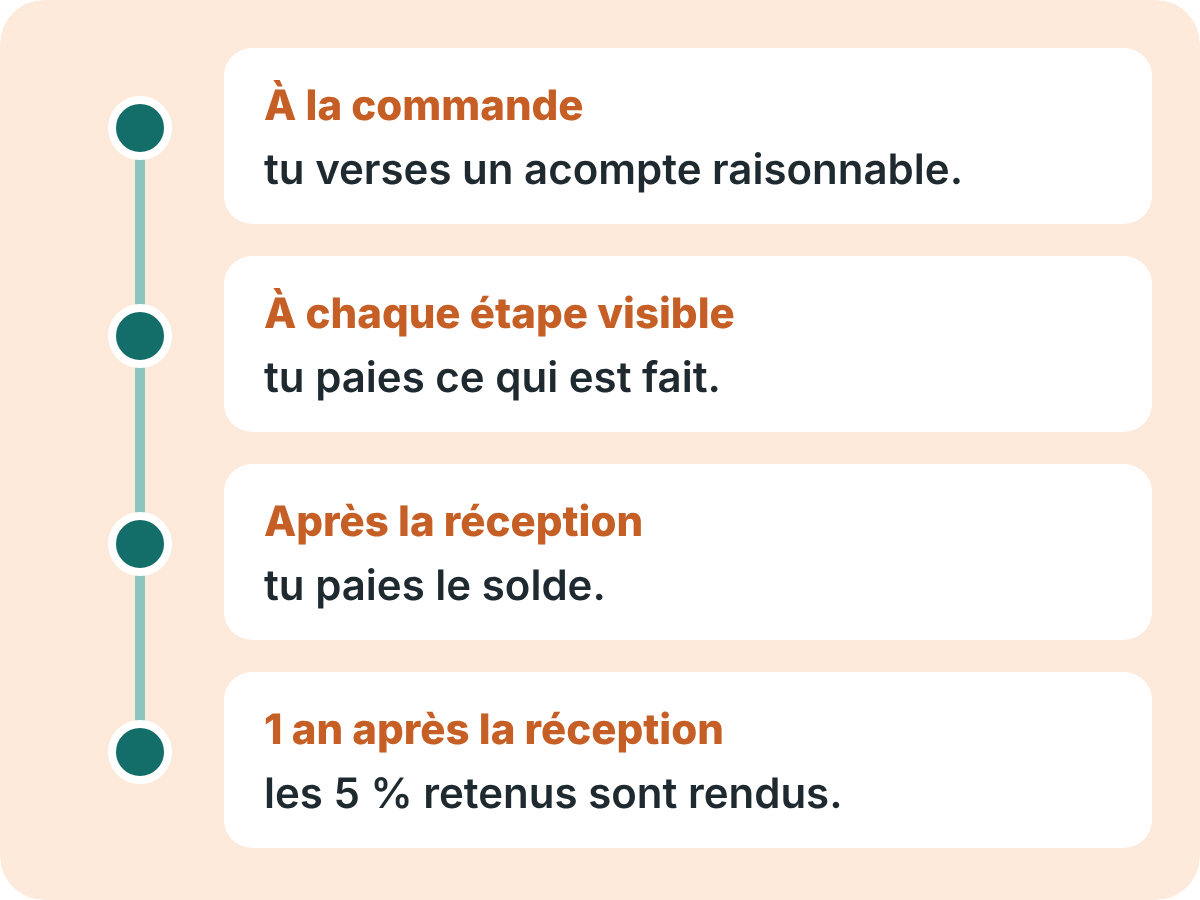
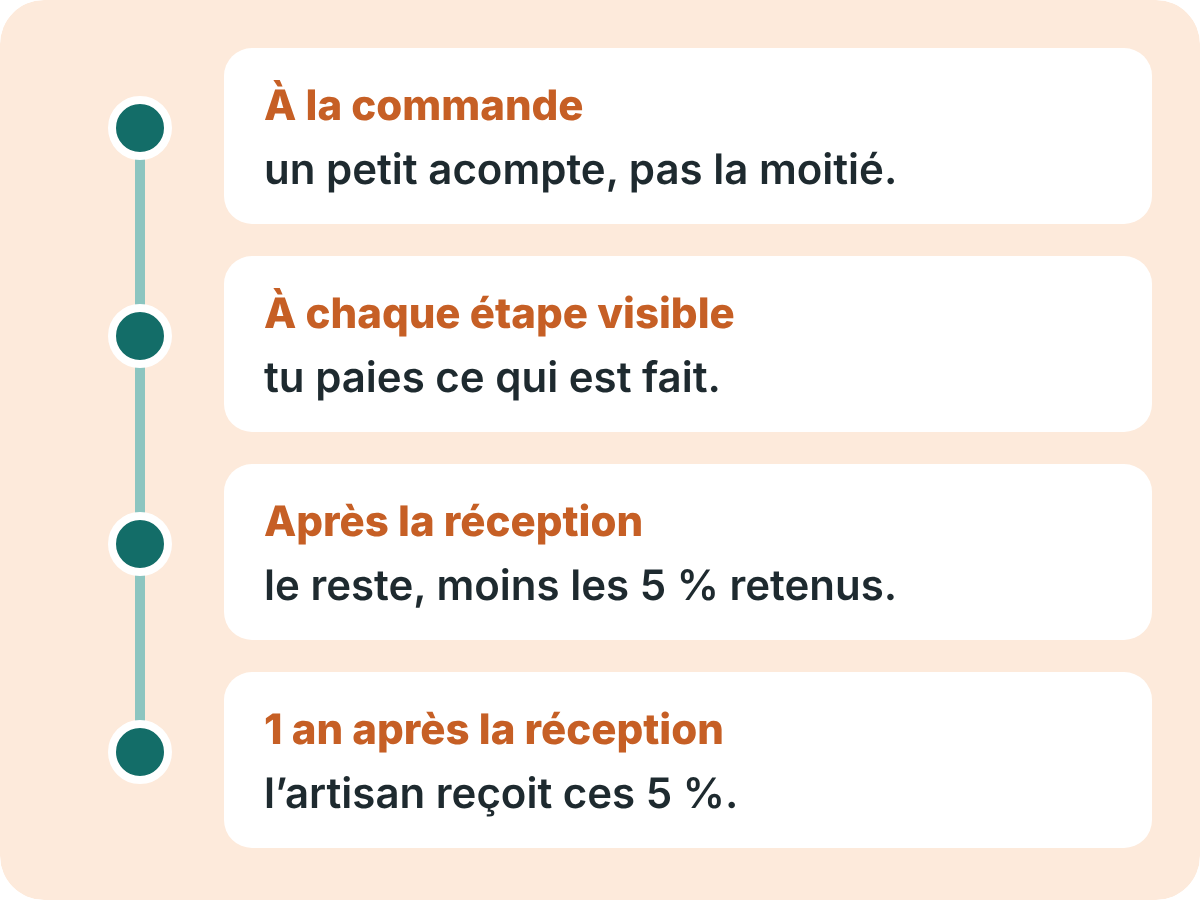
#155 et #156 : clarté pour un lecteur novice (textes et images)
Claude-Session: https://claude.ai/code/session_01QEEMWNZxp929Pj8nsugEVU

Changed region(s): [[0.2158, 0.1556, 0.8017, 0.2178], [0.2158, 0.6222, 0.74, 0.6844], [0.2158, 0.84, 0.7092, 0.9022]]

diff --git a/outils/illus156.py b/outils/illus156.py
@@ -30,35 +30,40 @@ for k,(ic,l1,l2) in enumerate([(coin,"Des loyers","perdus."),(clock,"Du temps","
     g+=ic(x,76)+txt(x,152,l1,22,INK,800)+txt(x,180,l2,22,INK,800)
 out["02-cout"]=svg(600,206,g,MANGO_L)
 
-# 03 LES TROIS GARANTIES DE LA RÉCEPTION
-rows=[("Parfait achèvement","1 an",48,["Les défauts notés à la réception,","et ceux qui apparaissent dans l’année."]),
-      ("Bon fonctionnement","2 ans",96,["Les équipements qu’on peut enlever","sans abîmer le bâti."]),
-      ("Décennale","10 ans",480,["Les dommages graves, qu’on ne","pouvait pas voir à la réception."])]
-g=(f'<rect x="40" y="22" width="150" height="34" rx="17" fill="{INK}"/>'+txt(115,45,"RÉCEPTION",16,WHITE,800,ls=2)
-   +f'<line x1="60" y1="56" x2="60" y2="{56+3*136}" stroke="{INK}" stroke-width="3" stroke-dasharray="6 6"/>')
-for k,(t,d,w,lines) in enumerate(rows):
-    y=74+k*136
-    g+=(txt(76,y+18,t,21,INK,800,anchor="start")+txt(560,y+18,d,22,MANGO_D,800,anchor="end")
-        +f'<rect x="60" y="{y+30}" width="{w}" height="18" rx="9" fill="{TEAL if k==2 else MANGO}"/>'
-        +"".join(txt(76,y+78+j*28,l,19,INK,600,anchor="start") for j,l in enumerate(lines)))
-out["03-garanties"]=svg(600,74+3*136+4,g,WHITE)
+# 03 CE QUE L'ARTISAN TE DOIT APRÈS LA RÉCEPTION
+def dur(cx,cy,k,h):
+    t=["1 an","2 ans","10 ans"][k]
+    return f'<rect x="{cx-42}" y="{cy-30}" width="84" height="60" rx="12" fill="{[MANGO,MANGO,TEAL][k]}"/>'+txt(cx,cy+8,t,22,WHITE,800)
+rows=[("Il répare tous les défauts,",["ceux notés à la réception et ceux","qui apparaissent dans l’année."]),
+      ("Il répare les équipements posés",["pendant les travaux, s’ils","tombent en panne."]),
+      ("Son assurance décennale paie",["si un dommage grave apparaît."])]
+g=txt(300,48,"APRÈS LA RÉCEPTION, L’ARTISAN RESTE RESPONSABLE",17,TEAL,800,ls=1)
+y=70
+for k,(t,lines) in enumerate(rows):
+    hh=54+30*len(lines)
+    g+=f'<rect x="24" y="{y}" width="552" height="{hh}" rx="14" fill="{WHITE}"/>'+dur(84,y+hh/2,k,False)
+    g+=txt(146,y+38,t,21,INK,800,anchor="start")+"".join(txt(146,y+68+jj*28,l,19,INK,600,anchor="start") for jj,l in enumerate(lines))
+    y+=hh+12
+out["03-garanties"]=svg(600,y+12,g,TEAL_L)
 
 # 05 LA RETENUE DE GARANTIE
-steps=[("Jusqu’à 5 %","du prix TTC","mis de côté."),("Bloqués","chez un tiers","choisi à deux."),("1 an","après réception,","rendus à l’artisan.")]
-g=""
-for k,(big,l1,l2) in enumerate(steps):
-    x=24+k*188
-    g+=f'<rect x="{x}" y="24" width="176" height="176" rx="16" fill="{WHITE}"/>'
-    g+=txt(x+88,82,big,30 if len(big)<9 else 25,MANGO_D,800)+txt(x+88,128,l1,18,INK,700)+txt(x+88,154,l2,18,INK,700)
-g+=txt(300,234,"Mais si les réserves ne sont pas levées d’ici là,",19,INK,600)+txt(300,260,"tu peux t’opposer à leur restitution par une lettre",19,INK,600)+txt(300,286,"recommandée motivée, envoyée au tiers qui les garde.",19,INK,600)
-out["05-retenue"]=svg(600,310,g,TEAL_L)
+def ic5(cx,cy,k,h):
+    if k==0: return f'<rect x="{cx-16}" y="{cy-4}" width="32" height="24" rx="4" fill="{TEAL}"/><path d="M{cx-10} {cy-4} v-8 a10 10 0 0 1 20 0 v8" stroke="{TEAL}" stroke-width="5" fill="none"/>'
+    if k==1: return check(cx,cy,MANGO,r=20)
+    if k==2: return f'<circle cx="{cx}" cy="{cy}" r="20" fill="{TEAL}"/>'+txt(cx,cy+8,"€",22,WHITE,800)
+    return f'<circle cx="{cx}" cy="{cy}" r="20" fill="{INK}"/><path d="M{cx-9} {cy-9} l18 18 M{cx+9} {cy-9} l-18 18" stroke="{WHITE}" stroke-width="5" stroke-linecap="round"/>'
+rows=[("L’argent ne reste pas chez toi.",["Il est bloqué chez un intermédiaire choisi","ensemble, par exemple un notaire."]),
+      ("Pendant ce temps,",["l’artisan corrige les réserves."]),
+      ("Au plus tard 1 an après la réception,",["l’argent lui est versé."]),
+      ("Défauts toujours là ?",["Écris en recommandé à cet intermédiaire, en","expliquant ce qui n’est pas réparé. L’argent","reste alors bloqué."])]
+out["05-retenue"]=rowcards(rows,TEAL_L,icon_fn=ic5,size_t=20,size_l=19)
 
 # 10 VÉRIFIER L'ARTISAN
-rows=[("Son numéro SIRET,",["vérifié sur l’Annuaire des entreprises."]),("Son attestation décennale,",["en cours, et pour les travaux confiés."]),("Un devis écrit et détaillé,",["poste par poste, avec les délais."])]
+rows=[("Son numéro SIRET,",["l’identité de son entreprise, à vérifier","sur le site Annuaire des entreprises."]),("Son attestation d’assurance décennale,",["encore valable, et qui couvre bien","tes travaux."]),("Un devis écrit et détaillé,",["poste par poste, avec les délais."])]
 out["10-verif"]=rowcards(rows,TEAL_L,icon_fn=lambda cx,cy,k,h: check(cx,cy,TEAL,r=18))
 
 # 11 PAYER AU RYTHME DU CHANTIER
-steps=[("À la commande","tu verses un acompte raisonnable."),("À chaque étape visible","tu paies ce qui est fait."),("Après la réception","tu paies le solde."),("1 an après la réception","les 5 % retenus sont rendus.")]
+steps=[("À la commande","un petit acompte, pas la moitié."),("À chaque étape visible","tu paies ce qui est fait."),("Après la réception","le reste, moins les 5 % retenus."),("1 an après la réception","l’artisan reçoit ces 5 %.")]
 g=""; y=24
 g+=f'<line x1="70" y1="{y+40}" x2="70" y2="{y+40+3*104}" stroke="{TEAL_M}" stroke-width="5"/>'
 for k,(quand,quoi) in enumerate(steps):
@@ -93,8 +98,8 @@ for k,t in enumerate(items):
 out["13-dossier"]=svg(600,368,g,MANGO_L)
 
 # 14 L'EXEMPLE
-rows=[("Si tu paies la moitié au départ","8 000 €",["versés pour des travaux jamais faits."],GREY_L,INK),
-      ("Si tu paies au rythme du chantier","1 000 €",["versés pour des travaux jamais faits."],TEAL,WHITE)]
+rows=[("Si tu as versé la moitié au départ","8 000 €",["payés pour rien, puisque tu as versé","10 000 € pour 2 000 € de travaux."],GREY_L,INK),
+      ("Si tu as payé au fur et à mesure","1 000 €",["payés pour rien, puisque tu as versé","3 000 € pour 2 000 € de travaux."],TEAL,WHITE)]
 out["14-exemple"]=bigcards(rows,MANGO_L)
 
 if ONLY: out={k:v for k,v in out.items() if k in ONLY}

diff --git a/outils/build156.py b/outils/build156.py
@@ -121,14 +121,14 @@ import re as _re
 ALTS={
 "06-will":"Will s’étonne « Et puis… plus rien. »",
 "02-cout":"Des loyers perdus. Du temps gaspillé. Des nuits blanches.",
-"03-garanties":"À partir de la réception, 1 an de parfait achèvement pour les défauts notés à la réception et ceux qui apparaissent dans l’année. 2 ans de bon fonctionnement pour les équipements qu’on peut enlever sans abîmer le bâti. 10 ans de décennale pour les dommages graves, qu’on ne pouvait pas voir à la réception.",
-"05-retenue":"Jusqu’à 5 % du prix TTC mis de côté, bloqués chez un tiers choisi à deux, et rendus à l’artisan 1 an après la réception. Mais si les réserves ne sont pas levées d’ici là, tu peux t’opposer à leur restitution par une lettre recommandée motivée, envoyée au tiers qui les garde.",
+"03-garanties":"Après la réception, l’artisan reste responsable. Pendant 1 an, il répare tous les défauts, ceux notés à la réception et ceux qui apparaissent dans l’année. Pendant 2 ans, il répare les équipements posés pendant les travaux, s’ils tombent en panne. Pendant 10 ans, son assurance décennale paie si un dommage grave apparaît.",
+"05-retenue":"L’argent ne reste pas chez toi, il est bloqué chez un intermédiaire choisi ensemble, par exemple un notaire. Pendant ce temps, l’artisan corrige les réserves. Au plus tard 1 an après la réception, l’argent lui est versé. Défauts toujours là ? Écris en recommandé à cet intermédiaire, en expliquant ce qui n’est pas réparé. L’argent reste alors bloqué.",
 "09-will-methode":"Will te dit « On suit l’ordre, étape par étape. »",
-"10-verif":"Son numéro SIRET, vérifié sur l’Annuaire des entreprises. Son attestation décennale, en cours, et pour les travaux confiés. Un devis écrit et détaillé, poste par poste, avec les délais.",
-"11-paiements":"À la commande, tu verses un acompte raisonnable. À chaque étape visible, tu paies ce qui est fait. Après la réception, tu paies le solde. 1 an après la réception, les 5 % retenus sont rendus.",
+"10-verif":"Son numéro SIRET, l’identité de son entreprise, à vérifier sur le site Annuaire des entreprises. Son attestation d’assurance décennale, encore valable, et qui couvre bien tes travaux. Un devis écrit et détaillé, poste par poste, avec les délais.",
+"11-paiements":"À la commande, un petit acompte, pas la moitié. À chaque étape visible, tu paies ce qui est fait. Après la réception, le reste, moins les 5 % retenus. 1 an après la réception, l’artisan reçoit ces 5 %.",
 "12-reception":"Ouvre les robinets. Teste chaque prise. Manœuvre chaque fenêtre. Regarde les joints de près. Et note chaque défaut dans le procès-verbal, avec des photos datées.",
 "13-dossier":"Ton dossier chantier. Le devis signé, l’attestation d’assurance, les factures, les photos et le procès-verbal de réception.",
-"14-exemple":"Si tu paies la moitié au départ, 8 000 € versés pour des travaux jamais faits. Si tu paies au rythme du chantier, 1 000 € versés pour des travaux jamais faits.",
+"14-exemple":"Si tu as versé la moitié au départ, 8 000 € payés pour rien, puisque tu as versé 10 000 € pour 2 000 € de travaux. Si tu as payé au fur et à mesure, 1 000 € payés pour rien, puisque tu as versé 3 000 € pour 2 000 € de travaux.",
 }
 def _md(t):
     t=_re.sub(r"\*\*(.+?)\*\*",r"<strong>\1</strong>",t)

diff --git a/outils/illus155.py b/outils/illus155.py
@@ -24,7 +24,7 @@ ban=base64.b64encode(open(sys.argv[2],"rb").read()).decode()
 out["01-hero"]=hero(ban,155,"Ta maison inachevée","te coûte cher.",unfinished(286,478,0.9,WHITE,PEACH)+f'<path d="M380 392 h36 l-18 26 l18 26 h-36 l18 -26 z" fill="{MANGO}"/><rect x="376" y="386" width="44" height="7" rx="3" fill="{PEACH}"/><rect x="376" y="441" width="44" height="7" rx="3" fill="{PEACH}"/>')
 
 # 02 CE QUE FAIT TON ARGENT PENDANT CE TEMPS
-rows=[("",["Il ne te rapporte aucun loyer."]),("",["Il ne t’apporte ni confort, ni toit."]),("",["Il vieillit avec le chantier, au soleil,","sous la pluie et dans l’air marin."])]
+rows=[("",["Ton argent ne te rapporte aucun loyer."]),("",["Il ne t’apporte ni confort, ni toit."]),("",["Il vieillit avec le chantier, au soleil,","sous la pluie et dans l’air marin."])]
 out["02-dort"]=rowcards(rows,MANGO_L,icon_fn=lambda cx,cy,k,h: cross(cx,cy,MANGO,r=18),size_l=21)
 
 # 03 LE PERMIS
@@ -64,20 +64,20 @@ g=(txt(300,4,"",1)+f'<rect x="30" y="30" width="270" height="44" rx="10" fill="{
    + f'<path d="M272 80 v34" stroke="{MANGO}" stroke-width="4"/><path d="M272 76 l-8 12 h16 z" fill="{MANGO}"/>'
    + txt(272,142,"Ta demande, au moins",20,MANGO_D,800)+txt(272,168,"2 mois avant la fin.",20,MANGO_D,800)
    + txt(300,216,"Tu peux le prolonger d’un an, jusqu’à 2 fois,",20,INK,600)
-   + txt(300,244,"si les règles d’urbanisme n’ont pas changé.",20,INK,600))
-out["11-prolonger"]=svg(600,272,g,TEAL_L)
+   + txt(300,244,"si les règles de construction de ta commune",20,INK,600)+ txt(300,270,"n’ont pas changé.",20,INK,600))
+out["11-prolonger"]=svg(600,298,g,TEAL_L)
 
 # 12 LA PARTIE QUI PEUT RAPPORTER EN PREMIER
 def ic12(cx,cy,k,h):
     if k==0: return unfinished(cx,cy+10,0.36,TEAL,GREY)
     if k==1: return f'<rect x="{cx-22}" y="{cy-18}" width="44" height="38" fill="{TEAL}"/><polygon points="{cx-28},{cy-16} {cx},{cy-36} {cx+28},{cy-16}" fill="{TEAL}"/><rect x="{cx-7}" y="{cy}" width="14" height="20" fill="{WHITE}"/>'
     return f'<rect x="{cx-26}" y="{cy-30}" width="52" height="28" fill="{GREY_L}" stroke="{GREY}" stroke-width="2" stroke-dasharray="5 4"/><rect x="{cx-26}" y="{cy}" width="52" height="28" fill="{TEAL}"/>'
-rows=[("Un rez-de-chaussée",["dont le gros œuvre est fait."]),("Un studio",["avec sa propre entrée."]),("Un niveau complet,",["pendant que l’autre attend."])]
-out["12-parties"]=rowcards(rows,TEAL_L,icon_fn=ic12)
+rows=[("Un rez-de-chaussée",["dont les murs et la dalle sont faits."]),("Un studio",["avec sa propre entrée."]),("Un étage entier,",["pendant que l’autre étage attend."])]
+out["12-parties"]=rowcards(rows,TEAL_L,icon_fn=ic12,head="CE QUI PEUT SE LOUER EN PREMIER")
 
 # 14 RODRIGUE
 rows=[("S’il continue comme avant","0 €",["de loyers sur les 3 prochaines années."],GREY_L,INK),
-      ("S’il met le rez-de-chaussée au travail","18 000 €",["de loyers sur 3 ans, soit 30 mois à 600 €."],TEAL,WHITE)]
+      ("S’il met le rez-de-chaussée au travail","18 000 €",["de loyers sur 3 ans, soit 30 mois à 600 €,","après 6 mois de travaux."],TEAL,WHITE)]
 out["14-rodrigue"]=bigcards(rows,MANGO_L)
 
 if ONLY: out={k:v for k,v in out.items() if k in ONLY}

diff --git a/outils/build155.py b/outils/build155.py
@@ -125,9 +125,9 @@ ALTS={
 "04-abri":"Ce qu’on croit, ton argent est à l’abri. En réalité, ton argent est à l’arrêt.",
 "09-will-methode":"Will te dit « Il te faut juste le bon ordre. »",
 "10-compte":"Ce qui dort dans ton chantier. Ce que tu as mis, hors terrain. Depuis combien d’années. Ce que ça t’a rapporté, 0 €.",
-"11-prolonger":"Ton permis, puis un an de plus, puis encore un an. Ta demande se fait au moins 2 mois avant la fin. Tu peux le prolonger d’un an, jusqu’à 2 fois, si les règles d’urbanisme n’ont pas changé.",
-"12-parties":"Un rez-de-chaussée dont le gros œuvre est fait. Un studio avec sa propre entrée. Un niveau complet, pendant que l’autre attend.",
-"14-rodrigue":"S’il continue comme avant, 0 € de loyers sur les 3 prochaines années. S’il met le rez-de-chaussée au travail, 18 000 € de loyers sur 3 ans, soit 30 mois à 600 €.",
+"11-prolonger":"Ton permis, puis un an de plus, puis encore un an. Ta demande se fait au moins 2 mois avant la fin. Tu peux le prolonger d’un an, jusqu’à 2 fois, si les règles de construction de ta commune n’ont pas changé.",
+"12-parties":"Ce qui peut se louer en premier. Un rez-de-chaussée dont les murs et la dalle sont faits. Un studio avec sa propre entrée. Un étage entier, pendant que l’autre étage attend.",
+"14-rodrigue":"S’il continue comme avant, 0 € de loyers sur les 3 prochaines années. S’il met le rez-de-chaussée au travail, 18 000 € de loyers sur 3 ans, soit 30 mois à 600 €, après 6 mois de travaux.",
 }
 def _md(t):
     t=_re.sub(r"\*\*(.+?)\*\*",r"<strong>\1</strong>",t)

diff --git a/outils/_common155.py b/outils/_common155.py
@@ -7,9 +7,10 @@ def hero(ban, num, l1, l2, icon, H=560):
     g+=(f'<path d="M0 520 C60 506 120 532 180 520 S300 506 360 520 S480 534 540 520 S600 514 620 520 V{H} H0 Z" fill="{TEAL_D}"/>'
         f'<path d="M0 536 C60 526 120 546 180 536 S300 526 360 536 S480 546 540 536 S600 532 620 536 V{H} H0 Z" fill="#0A403C"/>')
     return svg(600,H,g,TEAL)
-def rowcards(rows, bg, icon_fn=None, accent=None, size_t=22, size_l=21):
+def rowcards(rows, bg, icon_fn=None, accent=None, size_t=22, size_l=21, head=None):
     """rows: (titre, [lignes]) ; icon_fn(cx,cy,k) -> svg"""
     g=""; y=24
+    if head: g=txt(300,48,head,17,TEAL,800,ls=1); y=70
     for k,(t,lines) in enumerate(rows):
         h=(54 if t else 22)+32*len(lines); hl_=(accent==k)
         g+=f'<rect x="24" y="{y}" width="552" height="{h}" rx="14" fill="{TEAL if hl_ else WHITE}"/>'

diff --git a/outils/article156.md b/outils/article156.md
@@ -1,5 +1,5 @@
-[PROGRAMME] Le chantier qui s’arrête en&nbsp;plein&nbsp;milieu | Les protections que la loi te&nbsp;donne&nbsp;déjà | Ta méthode en 4&nbsp;étapes pour sécuriser ton&nbsp;chantier | L’exemple chiffré, pour que ce soit&nbsp;clair
-## Le chantier qui s’arrête en&nbsp;plein&nbsp;milieu
+[PROGRAMME] Le chantier qui s’arrête | Les protections que la loi te&nbsp;donne&nbsp;déjà | Ta méthode en 4&nbsp;étapes pour sécuriser ton&nbsp;chantier | L’exemple chiffré, pour que ce soit&nbsp;clair
+## Le chantier qui s’arrête
 § Tu viens enfin d’acheter ton bien, ou tu as décidé de rénover celui que tu possèdes déjà. Il y a une salle de bain à refaire, une cuisine, ou une toiture à reprendre avant la prochaine saison cyclonique.
 § Pour ça, tu trouves un artisan qu’un cousin t’a recommandé. Il est sympa, disponible, et pour commencer, il te demande la moitié du prix. Tu paies, c’est normal, il faut bien qu’il achète le matériel.
 § Les premiers jours, tout se passe bien. Il démolit l’ancienne salle de bain, puis il revient une fois, puis deux…
@@ -11,20 +11,21 @@
 § Et dans la plupart des cas, ce n’est pas une question de malchance.
 !! Tout se joue avant, pendant et à la fin du&nbsp;chantier.
 ## Les protections que la loi te&nbsp;donne&nbsp;déjà
-§ Heureusement, tu n’es pas sans défense, car tu disposes de trois outils. Le souci, c’est qu’ils ne marchent que si tu les utilises **au bon moment**.
-### Protection 1 — L’assurance&nbsp;décennale
-§ Cette assurance, tout professionnel qui réalise des travaux de construction doit l’avoir, et **avant** de démarrer le chantier.
-§ Elle couvre pendant 10 ans, à partir de la réception, les dommages graves, ceux qui menacent la solidité de la construction ou la rendent inhabitable. Ça concerne par exemple les fondations, l’ossature ou les canalisations encastrées.
-### Protection 2 — La réception des&nbsp;travaux
-§ La réception, c’est le moment où tu acceptes officiellement le chantier, dans un procès-verbal. Tu peux l’accepter tel quel, ou avec des **réserves**, c’est-à-dire en notant les défauts que l’artisan devra corriger.
-§ Et c’est l’étape la plus importante, parce que c’est elle qui déclenche les garanties.
+§ Heureusement, tu n’es pas sans défense, car la loi te donne trois protections. Le souci, c’est qu’elles ne marchent que si tu les utilises **au bon moment**.
+### Protection 1 — La réception des&nbsp;travaux
+§ La première, c’est la réception. À la fin du chantier, tu acceptes officiellement les travaux en signant un document qu’on appelle le procès-verbal de réception.
+§ Si tout est bon, tu signes tel quel. Et si tu vois des défauts, tu les notes sur ce document. On appelle ça des **réserves**, et l’artisan devra les corriger.
+§ Ce jour-là compte énormément, parce que c’est lui qui fait démarrer les garanties.
 [IMAGE 03-garanties]
-§ Seulement, un défaut visible que tu ne signales pas ce jour-là est considéré comme **accepté**, et tu ne pourras plus demander à l’entreprise de le réparer au titre des garanties.
-§ Et si l’artisan a simplement ajouté ou remplacé un équipement dans un logement existant, comme un chauffe-eau ou une clim, les juges écartent depuis 2024 la garantie de 2 ans et la décennale. Il te reste alors la responsabilité classique de l’artisan.
+§ Mais attention, si tu vois un défaut ce jour-là et que tu ne le notes pas, la loi considère que tu l’as **accepté**. Tu ne pourras plus demander à l’artisan de le réparer ensuite.
+§ Une nuance aussi. Si l’artisan vient seulement poser ou remplacer un appareil dans un logement qui existe déjà, comme un chauffe-eau ou une clim, les garanties de 2 et 10 ans ne s’appliquent pas. C’est ce que juge depuis 2024 la Cour de cassation, le plus haut tribunal de France. Il reste responsable de son travail, mais c’est alors à toi de prouver qu’il a mal fait.
+### Protection 2 — L’assurance&nbsp;décennale
+§ Ces 10 ans de garantie, c’est l’assurance décennale de l’artisan qui les couvre. Tout professionnel qui fait des travaux de construction doit la souscrire avant même de commencer le chantier.
+§ Concrètement, si une fissure menace la solidité de ta maison, ou si une fuite dans une canalisation encastrée la rend inhabitable, c’est cette assurance qui paie les réparations.
 ### Protection 3 — La retenue de&nbsp;garantie
-§ Si le contrat le prévoit, la loi du 16 juillet 1971 te permet de retenir une partie du prix, pour pousser l’entreprise à revenir corriger les réserves.
+§ La troisième protection est moins connue. À la fin du chantier, au lieu de payer 100 % du prix, tu peux retenir jusqu’à 5 %, à condition que ce soit prévu dans le contrat. C’est la loi du 16 juillet 1971 qui le permet.
+§ Cet argent te sert de moyen de pression, pour que l’artisan revienne corriger les réserves notées à la réception.
 [IMAGE 05-retenue]
-§ Et l’entreprise peut aussi remplacer cette retenue par une caution bancaire.
 § Tu le vois, ces protections se préparent **avant le premier coup de&nbsp;masse**.
 ## Ta méthode en 4 étapes pour sécuriser ton&nbsp;chantier
 § Pour ça, pas besoin d’être juriste, ni maçon.
@@ -43,7 +44,7 @@
 ### Étape 3 — Réceptionne par écrit, et prends ton&nbsp;temps
 § Le jour de la fin des travaux, ne te contente pas d’une poignée de main. Fais le tour avec l’artisan, pièce par pièce.
 [IMAGE 12-reception]
-§ Et si tu es loin, ou si tu ne te sens pas à l’aise, fais-toi accompagner par un professionnel ce jour-là.
+§ Et si tu es loin, ou si tu ne te sens pas à l’aise, fais-toi accompagner ce jour-là par un professionnel, un architecte ou un expert en bâtiment.
 ### Étape 4 — Garde ton dossier chantier pendant 10&nbsp;ans
 § Une fois le chantier fini, range tous les papiers au même endroit.
 [IMAGE 13-dossier]
@@ -52,10 +53,10 @@
 ## L’exemple chiffré, pour que ce soit&nbsp;clair
 § Prenons un T2 en Martinique que tu veux remettre en location. Le devis pour refaire la salle de bain et la cuisine s’élève à 20 000 € TTC, et une fois les travaux finis, tu comptes le louer 650 € par mois.
 § *(C’est un exemple fictif aux chiffres ronds, pas des prix de marché.)*
-§ Tu peux faire comme avec l’artisan du début, et verser la moitié à la signature, soit 10 000 €. Ou tu ne verses que 3 000 € à la commande, puis tu paies étape par étape.
-§ Imagine maintenant que, dans les deux cas, l’artisan disparaisse après la démolition, qui représente environ 2 000 € de travaux.
+§ Pour payer l’artisan, tu as deux façons de faire. Tu peux verser la moitié dès la signature, comme avec l’artisan du début, c’est-à-dire 10 000 €. Ou tu ne verses que 3 000 € au départ, puis tu paies au fur et à mesure.
+§ Imagine maintenant que, dans les deux cas, l’artisan disparaisse après la démolition. À ce moment-là, il n’a fait qu’environ 2 000 € de travaux.
 [IMAGE 14-exemple]
-§ Ces 8 000 €, il faudrait alors aller les récupérer en justice, à condition que l’entreprise puisse encore payer. Le retard, en revanche, est le même des deux côtés. Compte 4 mois pour trouver un autre artisan, soit 2 600 € de loyers perdus.
+§ Ces 8 000 €, il faudrait alors aller les récupérer en justice, à condition que l’entreprise puisse encore payer. Le retard, en revanche, est le même dans les deux cas. Compte 4 mois pour trouver un autre artisan, soit 2 600 € de loyers perdus (4 mois à 650 €).
 § Je ne vais pas te raconter d’histoires, aucune méthode ne garantit un chantier sans problème. Mais quand chaque euro suit l’avancement, tu risques beaucoup moins gros, et l’artisan a une raison de plus de revenir finir le travail.
 § Ton artisan construit les murs.
 !! Toi, tu construis les&nbsp;protections.

diff --git a/outils/article155.md b/outils/article155.md
@@ -27,26 +27,26 @@
 [IMAGE 10-compte]
 ### Étape 2 — Vérifie où en sont tes&nbsp;papiers
 § Ensuite, avant de relancer quoi que ce soit, passe à la mairie pour vérifier que ton permis de construire est toujours valable, et ce qu’il couvre exactement.
-§ Si c’est le cas, tant mieux. Et si le temps te manque, sache qu’il peut être prolongé.
+§ Si c’est le cas, tant mieux. Et s’il arrive bientôt à sa date limite, sache qu’il peut être prolongé.
 [IMAGE 11-prolonger]
 § Et s’il est périmé, mieux vaut le découvrir maintenant que le jour où le maçon arrive pour l’étage.
 ### Étape 3 — Choisis la partie qui peut rapporter en&nbsp;premier
-§ Une fois tes papiers en ordre, regarde ton chantier avec des yeux de propriétaire bailleur. Quelle partie pourrait devenir un logement indépendant le plus vite, avec le moins de travaux ?
+§ Une fois tes papiers en ordre, regarde ton chantier avec les yeux d’un propriétaire qui veut louer. Quelle partie pourrait devenir un logement indépendant le plus vite, avec le moins de travaux ?
 [IMAGE 12-parties]
 § Ensuite, fais chiffrer **uniquement** cette partie par des professionnels, avec des devis détaillés. Et garde en tête qu’elle devra respecter les critères d’un logement décent, sinon tu ne pourras pas la louer.
 ### Étape 4 — Compare deux façons de financer la&nbsp;fin
 § Reste à savoir comment payer ces travaux. Soit tu continues comme avant, au rythme de ton épargne. Soit tu finances cette partie d’un coup, avec ce que tu as déjà mis de côté et, si besoin, un prêt travaux, pour la louer plus vite.
 § Dans les deux cas, note ce que ça te coûte et le **premier mois** où ça te rapporte. Bien souvent, la différence saute aux yeux.
 § Et si tu penses au prêt, tes devis de l’étape 3 vont te servir une deuxième fois. C’est sur eux que la banque s’appuiera pour décider de te financer.
-§ Dans ce calcul, n’oublie pas non plus le coup de pouce dont on a parlé fin octobre, l’exonération de taxe foncière de 2 ans, totale ou partielle selon ta commune. Pour en profiter, déclare la partie terminée aux impôts dans les **90 jours** qui suivent la fin des travaux.
+§ Dans ce calcul, n’oublie pas non plus le coup de pouce dont on a parlé fin octobre. Pendant 2 ans, tu ne paies pas de taxe foncière sur la partie neuve, ou tu en paies moins, selon ta commune. Pour en profiter, déclare la partie terminée aux impôts dans les **90 jours** qui suivent la fin des travaux.
 § Tu vois, ton chantier n’a pas besoin d’être fini pour commencer à travailler.
 !! Il a juste besoin d’un&nbsp;plan.
 ## Concrètement, à quoi ça&nbsp;ressemble ?
 § Prenons Rodrigue. Il est locataire à Petit-Bourg, en Guadeloupe, et il construit sa maison sur un terrain que ses parents lui ont donné.
 § *(C’est un exemple fictif aux chiffres ronds, juste pour illustrer.)*
 § Depuis 8 ans, il avance petit à petit, et il y a déjà mis 60 000 €. Les murs et la dalle du rez-de-chaussée sont faits, mais rien n’est fini à l’intérieur, et l’étage attend toujours.
-§ Comme il met environ 8 000 € de côté chaque année, il lui faudra encore 5 ou 6 ans pour tout finir. Et pendant tout ce temps, il continue de payer son propre loyer.
-§ Maintenant, imagine qu’il change l’ordre de ses travaux. Il fait chiffrer la fin du rez-de-chaussée en T2 indépendant, et les 25 000 € de travaux, il les finance avec son épargne et un petit prêt. Six mois plus tard, il loue ce T2 600 € par mois.
+§ Il lui reste environ 45 000 € de travaux, et comme il met environ 8 000 € de côté chaque année, il lui faudra encore 5 ou 6 ans pour tout finir. Et pendant tout ce temps, il continue de payer son propre loyer.
+§ Maintenant, imagine qu’il change l’ordre de ses travaux. Il fait chiffrer la fin du rez-de-chaussée en T2 indépendant (un salon et une chambre), et les 25 000 € de travaux, il les finance avec son épargne et un petit prêt. Six mois plus tard, il loue ce T2 600 € par mois.
 [IMAGE 14-rodrigue]
 § Bien sûr, il faudra retirer de ces 18 000 € le coût du prêt, l’assurance et l’entretien. Et l’étage attendra encore un peu, mais au lieu d’un chantier qui dort, Rodrigue a maintenant des loyers pour le financer.
 § Même maison, même terrain, même Rodrigue. La seule chose qui a changé, c’est **l’ordre** dans lequel il construit.
